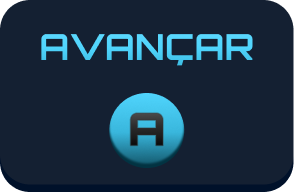
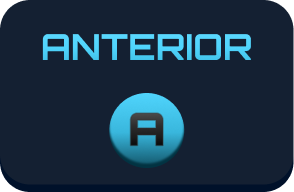
estilos:

Changed region(s): [[0.1224, 0.1562, 0.8878, 0.3438]]

diff --git a/src/app/selecao_jogadores/Painel_Interacao/botoes/Botao_Sortear.jsx b/src/app/selecao_jogadores/Painel_Interacao/botoes/Botao_Sortear.jsx
@@ -1,23 +1,23 @@
-import imagem_botao from '../../../../../public/img/botoes_especiais/avancar_half_azul.png'
-import imagem_botao_hover from '../../../../../public/img/botoes_especiais/avancar_half_azul_hovered.png'
-import imagem_botao_pressionado from '../../../../../public/img/botoes_especiais/avancar_half_azul_pressionado.png'
+import imagem_botao from '../../../../../public/img/botoes_especiais/sortear_amarelo.png'
+import imagem_botao_hover from '../../../../../public/img/botoes_especiais/sortear_amarelo_hovered.png'
+import imagem_botao_pressionado from '../../../../../public/img/botoes_especiais/sortear_amarelo_pressionado.png'
 
 
 import styled from "styled-components";
 
-const Container_Botao_Avancar = styled.div`
+const Container_Botao_Sorteio = styled.div`
   background-image: url(${props => props.img_url});
   display: flex;
-  width: 229px;
-  height: 128px;
+  width: 100%;
+  height: 7.2vw;
   flex-direction: column;
   background-repeat: no-repeat;
-  background-size: 229px 128px;
+  background-size: 100% 7.2vw;
   justify-content: flex-start;
   text-transform: uppercase;
   text-align: center;
   font-family: Orbitron;
-  font-size: 24px;
+  font-size: 1.75vw;
   font-style: normal;
   font-weight: 700;
   line-height: normal;
@@ -25,7 +25,6 @@ const Container_Botao_Avancar = styled.div`
   align-items: center;
   cursor: pointer;
   transition: 150ms;
-
   &:hover {
     background-image: url(${props => props.img_hover_url});
   }
@@ -34,11 +33,11 @@ const Container_Botao_Avancar = styled.div`
     background-image: url(${props => props.img_active_url});
   }
 `
-export default function Botao_Avancar() {
+export default function Botao_Sortear() {
     return (
-        <Container_Botao_Avancar
+        <Container_Botao_Sorteio
             img_url={imagem_botao.src}
             img_hover_url={imagem_botao_hover.src}
             img_active_url={imagem_botao_pressionado.src}>
-        </Container_Botao_Avancar>)
+        </Container_Botao_Sorteio>)
 }

diff --git a/src/app/selecao_jogadores/Painel_Interacao/botoes/Botao_Anterior.jsx b/src/app/selecao_jogadores/Painel_Interacao/botoes/Botao_Anterior.jsx
@@ -1,6 +1,6 @@
-import imagem_botao from '../../../../../public/img/botoes_especiais/proximo_half_verde.png'
-import imagem_botao_hover from '../../../../../public/img/botoes_especiais/proximo_half_verde_hovered.png'
-import imagem_botao_pressionado from '../../../../../public/img/botoes_especiais/proximo_half_verde_pressionado.png'
+import imagem_botao from '../../../../../public/img/botoes_especiais/avancar_half_azul.png'
+import imagem_botao_hover from '../../../../../public/img/botoes_especiais/avancar_half_azul_hovered.png'
+import imagem_botao_pressionado from '../../../../../public/img/botoes_especiais/avancar_half_azul_pressionado.png'
 
 
 import styled from "styled-components";
@@ -23,7 +23,6 @@ const Container_Botao_Avancar = styled.div`
   line-height: normal;
   color: #62DBFF;
   align-items: center;
-  gap: 16px;
   cursor: pointer;
   transition: 150ms;
 
@@ -35,10 +34,11 @@ const Container_Botao_Avancar = styled.div`
     background-image: url(${props => props.img_active_url});
   }
 `
-export default function Botao_Proximo() {
-    return (<Container_Botao_Avancar
-        img_url={imagem_botao.src}
-        img_hover_url={imagem_botao_hover.src}
-        img_active_url={imagem_botao_pressionado.src}>
-    </Container_Botao_Avancar>)
+export default function Botao_Anterior() {
+    return (
+        <Container_Botao_Avancar
+            img_url={imagem_botao.src}
+            img_hover_url={imagem_botao_hover.src}
+            img_active_url={imagem_botao_pressionado.src}>
+        </Container_Botao_Avancar>)
 }

diff --git a/src/app/selecao_jogadores/estilo/painel_interacao.js b/src/app/selecao_jogadores/estilo/painel_interacao.js
@@ -16,7 +16,7 @@ export const Container_Camada_Interna = styled(Container_Painel_Interacao)`
   width: calc(100% - 32px);
   height: calc(100% - 32px);
   flex-direction: column;
-  justify-content: center;
+  justify-content: space-between;
   align-items: center;
   gap: 16px;
   align-self: stretch;
@@ -31,9 +31,43 @@ export const Titulo_Pagina = styled.h1`
   text-align: center;
   font-family: Orbitron;
   text-transform: uppercase;
+  display: flex;
+  align-items: center;  
   font-size: 40px;
   font-style: normal;
   font-weight: 700;
-  line-height: 200%; /* 80px */
   letter-spacing: 8px;
+  height: 17.64vw;
+`
+export const Contador_Jogadores_Selecionados = styled.div`
+  border-radius: 20px;
+  background: linear-gradient(97deg, rgba(60, 37, 39, 0.30) -178.97%, rgba(11, 11, 79, 0.30) 247.86%);
+  backdrop-filter: blur(2px);
+  display: flex;
+  height: 67px;
+  padding: 0 32px;
+  justify-content: space-between;
+  align-items: center;
+  align-self: stretch;
+`
+
+export const Jogadores_Label = styled.p`
+  background: linear-gradient(180deg, #FFF 0%, #FFF 100%);
+  background-clip: text;
+  -webkit-background-clip: text;
+  -webkit-text-fill-color: transparent;
+  font-family: Orbitron;
+  font-size: 24px;
+  font-style: normal;
+  font-weight: 900;
+  line-height: 170%; /* 40.8px */
+`
+export const Numero_Jogadores_Selecionados = styled.p`
+  color: #FFF;
+  text-align: center;
+  font-family: Orbitron;
+  font-size: 40px;
+  font-style: normal;
+  font-weight: 700;
+  line-height: normal;
 `

diff --git a/src/app/selecao_jogadores/Painel_Interacao/Painel_Interacao.jsx b/src/app/selecao_jogadores/Painel_Interacao/Painel_Interacao.jsx
@@ -1,6 +1,13 @@
-import {Container_Camada_Interna, Container_Painel_Interacao, Titulo_Pagina} from "../estilo/painel_interacao";
-import Botao_Avancar from './botoes/Botao_Avancar'
+import {
+    Contador_Jogadores_Selecionados,
+    Container_Camada_Interna,
+    Container_Painel_Interacao, Jogadores_Label, Numero_Jogadores_Selecionados,
+    Titulo_Pagina
+} from "../estilo/painel_interacao";
+import Botao_Anterior from './botoes/Botao_Anterior'
 import Botao_Proximo from './botoes/Botao_Proximo'
+import Botao_Sortear from "./botoes/Botao_Sortear";
+import Botao_Tela_Inicial from "./botoes/Botao_Tela_Inicial";
 
 
 export default function Painel_Interacao() {
@@ -11,10 +18,16 @@ export default function Painel_Interacao() {
                 display: "flex", gap: '16px', justifyContent: "space-between"
             }}>
 
-                <Botao_Avancar></Botao_Avancar>
+                <Botao_Anterior></Botao_Anterior>
                 <Botao_Proximo></Botao_Proximo>
             </div>
+            <Contador_Jogadores_Selecionados>
+                <Jogadores_Label>JOGADORES</Jogadores_Label>
+                <Numero_Jogadores_Selecionados>0</Numero_Jogadores_Selecionados>
+            </Contador_Jogadores_Selecionados>
             <Titulo_Pagina>selecione jogadores</Titulo_Pagina>
+            <Botao_Sortear></Botao_Sortear>
+            <Botao_Tela_Inicial></Botao_Tela_Inicial>
         </Container_Camada_Interna>
     </Container_Painel_Interacao>)
 }

diff --git a/src/app/selecao_jogadores/Painel_Interacao/botoes/Botao_Tela_Inicial.jsx b/src/app/selecao_jogadores/Painel_Interacao/botoes/Botao_Tela_Inicial.jsx
@@ -1,0 +1,44 @@
+import imagem_botao from '../../../../../public/img/botoes_especiais/tela_inicial_red.png'
+import imagem_botao_hover from '../../../../../public/img/botoes_especiais/tela_inicial_red_hovered.png'
+import imagem_botao_pressionado from '../../../../../public/img/botoes_especiais/tela_inicial_red_pressionado.png'
+
+
+import styled from "styled-components";
+
+const Container_Botao_Tela_Inicial = styled.div`
+  background-image: url(${props => props.img_url});
+  display: flex;
+  width: 100%;
+  height: 7.2vw;
+  flex-direction: column;
+  background-repeat: no-repeat;
+  background-size: 100% 7.2vw;
+  justify-content: flex-start;
+  text-transform: uppercase;
+  text-align: center;
+  font-family: Orbitron;
+  font-size: 1.75vw;
+  font-style: normal;
+  font-weight: 700;
+  line-height: normal;
+  color: #62DBFF;
+  align-items: center;
+  cursor: pointer;
+  transition: 150ms;
+
+  &:hover {
+    background-image: url(${props => props.img_hover_url});
+  }
+
+  &:active {
+    background-image: url(${props => props.img_active_url});
+  }
+`
+export default function Botao_Sortear() {
+    return (
+        <Container_Botao_Tela_Inicial
+            img_url={imagem_botao.src}
+            img_hover_url={imagem_botao_hover.src}
+            img_active_url={imagem_botao_pressionado.src}>
+        </Container_Botao_Tela_Inicial>)
+}
